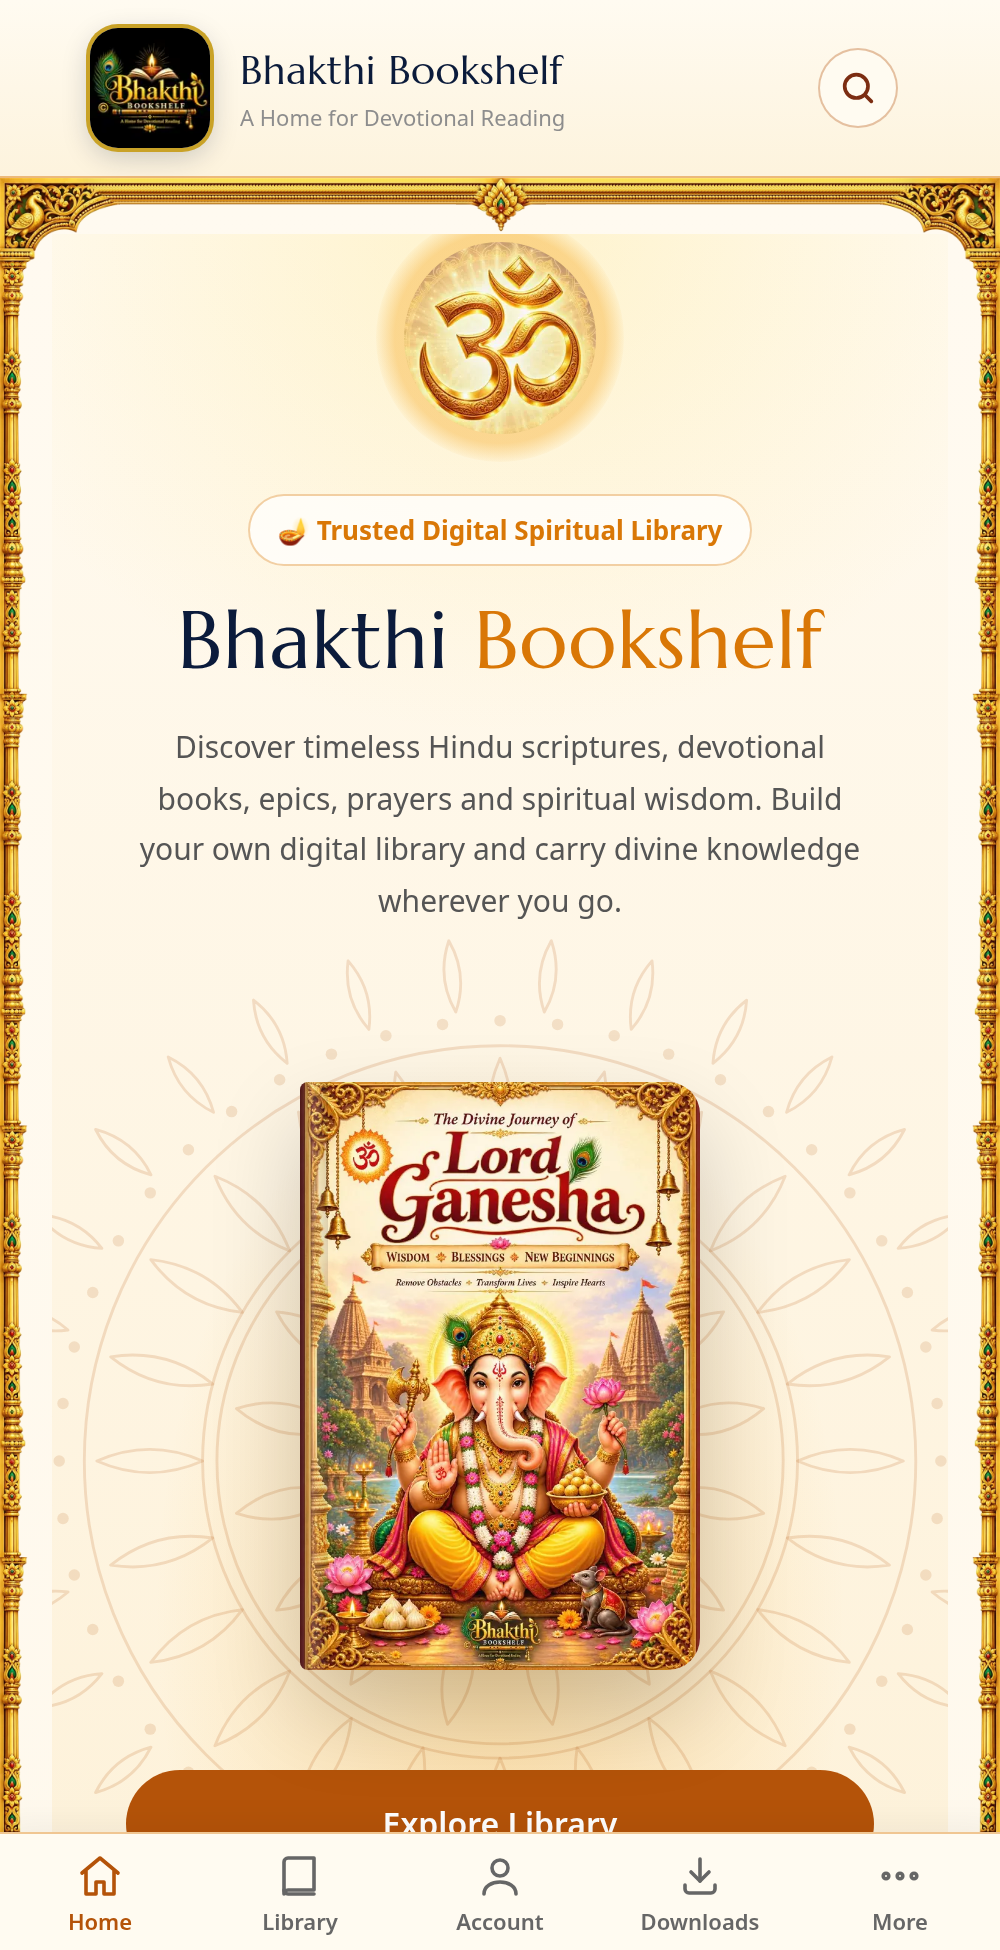
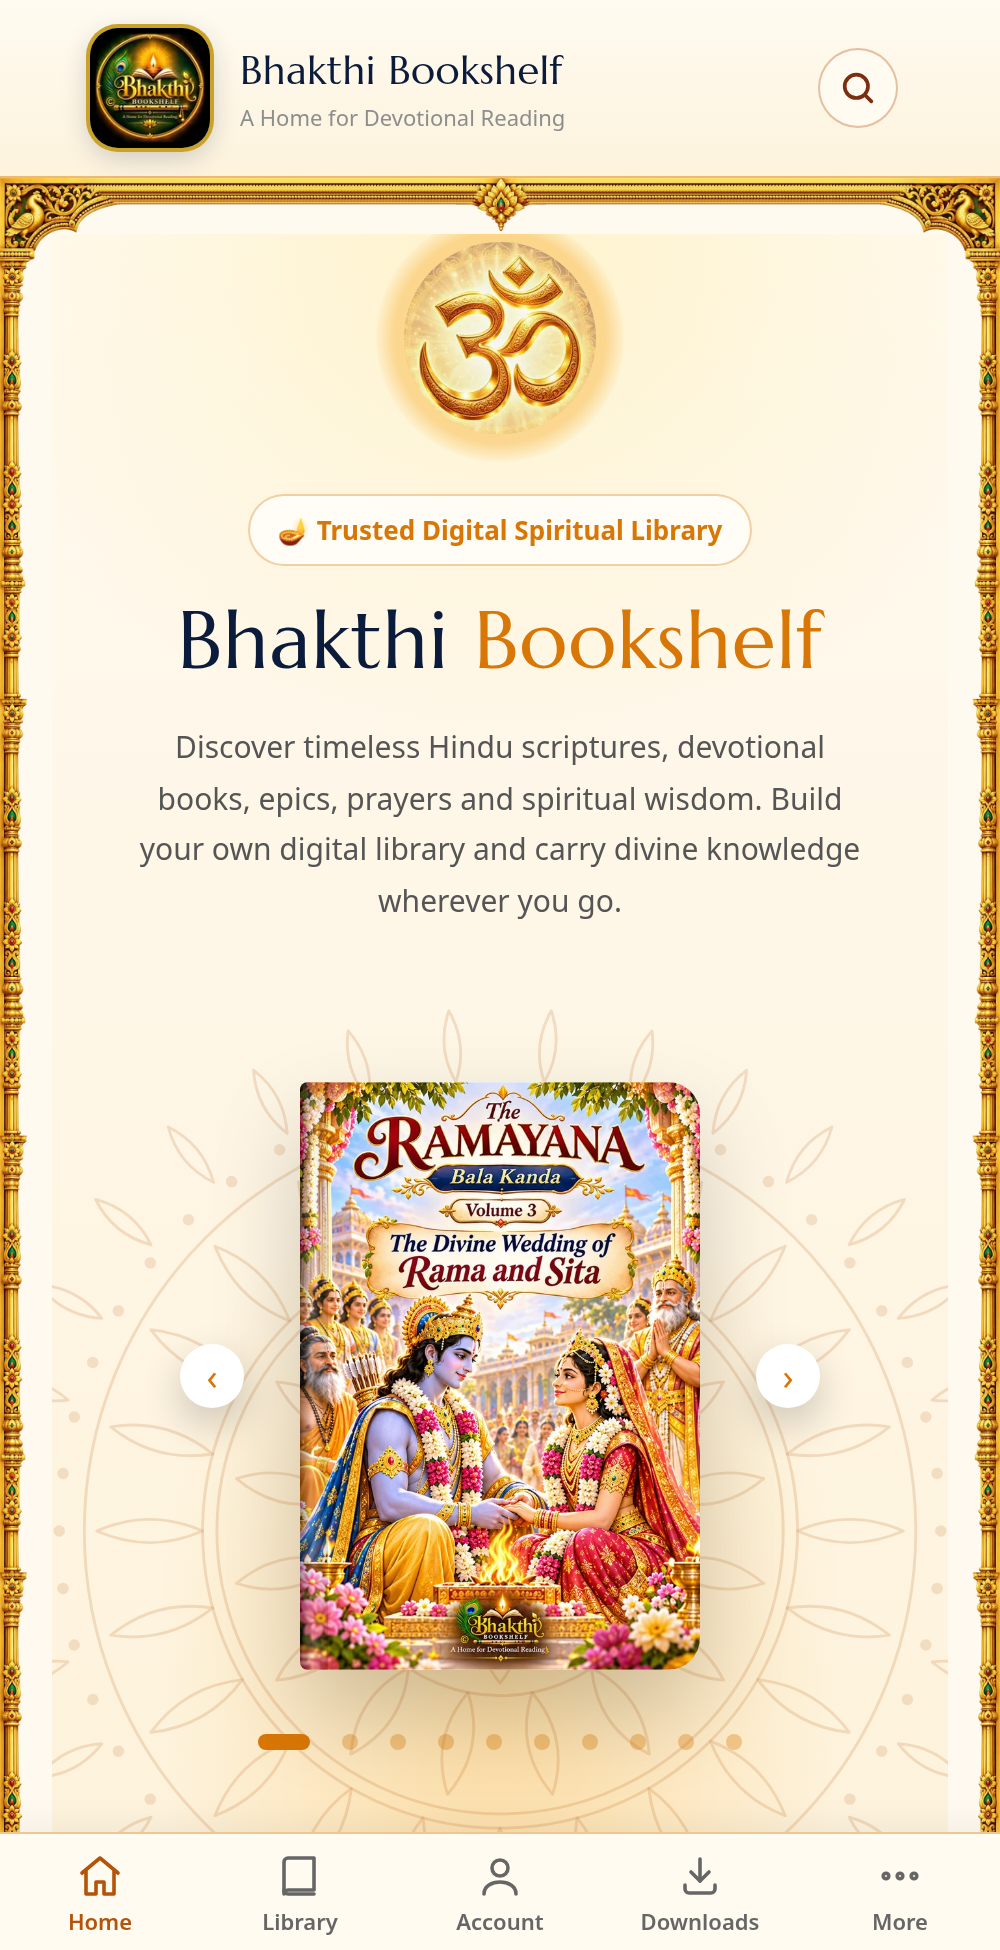
Play Store screenshots retaken for the Play Billing app: home, library (184 books, language chips), book page with Buy ₹29, Kannada filter, Lifetime Access Buy ₹999, festivals

diff --git a/docs/play-store-listing.md b/docs/play-store-listing.md
@@ -131,7 +131,7 @@ otherwise its Buy button in the app shows "not available".
 | --- | --- | --- | --- |
 | App icon | 512×512 PNG | `app-icon-512.png` | Same as the installed app's icon (round logo since 1.7). |
 | Feature graphic | 1024×500 PNG (no alpha) | `feature-graphic.png` | Source `feature-graphic.html` — render at e.g. 1024×700 and crop to 1024×500. |
-| Phone screenshots | 1000×1950 PNG | `screenshot-1-home.png`, `screenshot-2-book-detail.png`, `screenshot-3-festivals.png`, `screenshot-4-library.png` | Taken 2026-09-29 in the old read-only mode (no prices / Buy buttons). They're still accurate enough to submit (nothing shown is missing from the app), but **should be retaken** to show the 180+ book library, the language chips and the Google Play Buy button. |
+| Phone screenshots | 1000×1950 PNG | `screenshot-1-home.png`, `screenshot-2-library.png` (language + category chips, 184 books), `screenshot-3-book-detail.png` (Sri Vishnu Dasha Avatar, **Buy — ₹29.00**), `screenshot-4-kannada-books.png` (ಕನ್ನಡ filter, 52 books), `screenshot-5-lifetime-access.png` (**Buy — ₹999.00**), `screenshot-6-festivals.png` | Retaken **2026-11-24** in Play Billing app mode (Capacitor + PlayBilling plugin faked, signed-in throwaway customer) against a local copy of the live catalogue (books/plans/settings/festival dates + covers only). Upload in this order. No Razorpay, cart or website link anywhere. |
 | Tablet screenshots, promo video | optional | — | Skip for v1. |
 
 **Screenshot method:** headless Chrome at 500 CSS px wide with
